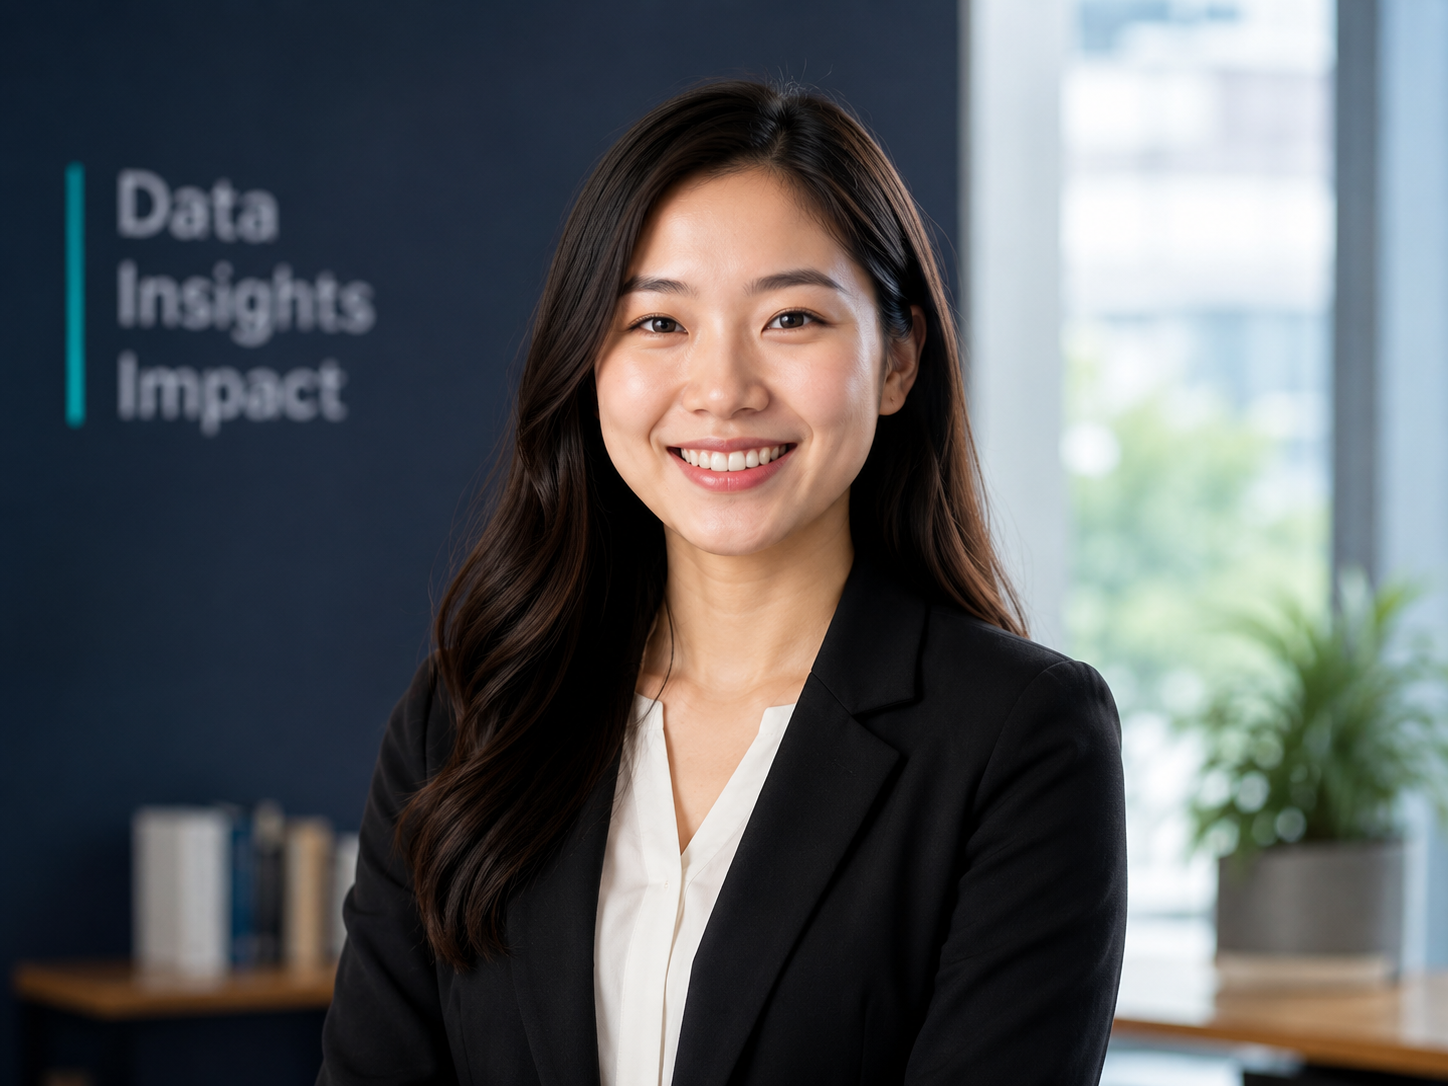
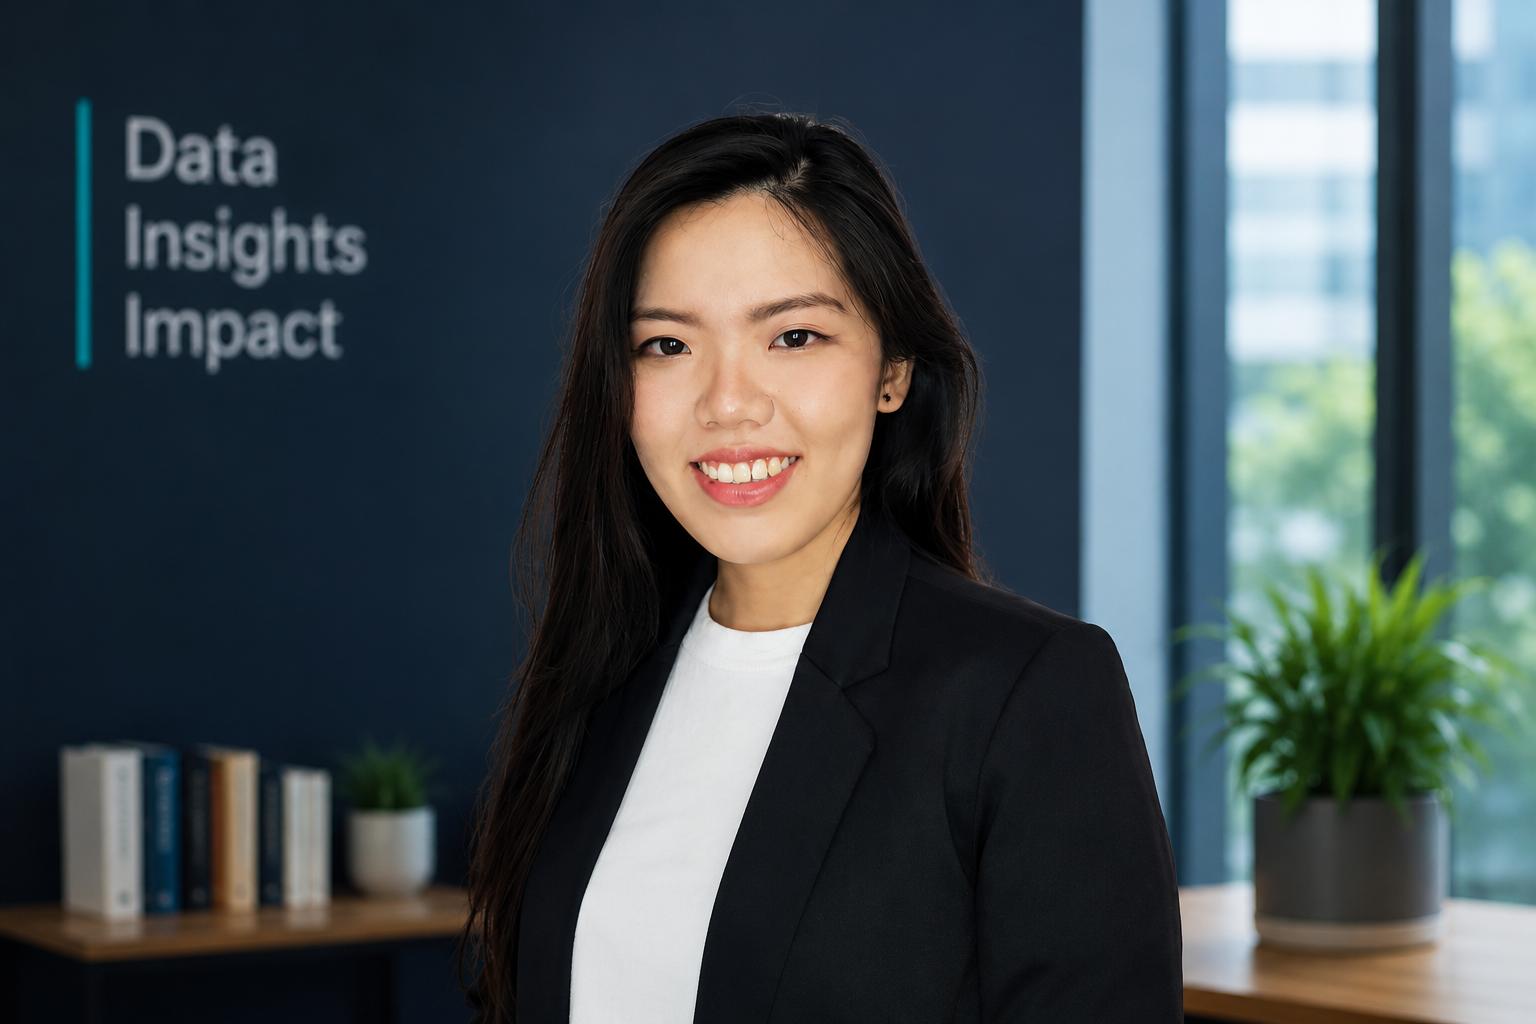
add Education Section + refining

diff --git a/index.html b/index.html
@@ -68,12 +68,12 @@
         </h1>
 
         <h3>
-          IT Consultant • Business Analyst •
+          Business Analyst • IT Consultant •
           Data Analyst
         </h3>
 
         <p>
-          IT Consultant and Business Analyst with 4+ years of experience delivering banking transformation initiatives
+          Business Analyst and IT Consultant with 4+ years of experience delivering banking transformation initiatives
           and
           analytical solutions. I specialize in translating complex business requirements into practical solutions that
           improve decision-making and operational performance.
@@ -323,24 +323,25 @@
 
             <ul class="exp-list">
               <li>
-                Led end-to-end Avaloq finance module migration with a lean delivery team.
+                Led end-to-end Finance module for and Avaloq core banking migration with a lean delivery team.
               </li>
 
               <li>
-                Delivered the project on schedule with the fewest tickets among project teams.
+                Built an Excel-based resource tracker, improving workload visibility and chargeability planning.
               </li>
 
               <li>
-                Reduced production issues from over 100 to 4 within two months through root-cause analysis and process
-                improvements.
+                Coordinated post-go-live issue resolution, reducing open production tickets from 100+ to 4 within two
+                months.
               </li>
             </ul>
 
             <div class="exp-tags">
-              <span>Avaloq</span>
-              <span>PL/SQL</span>
               <span>Business Analysis</span>
-              <span>SIT/UAT</span>
+              <span>Avaloq</span>
+              <span>Project Delivery</span>
+              <span>Stakeholder Management</span>
+              <span>PMO</span>
             </div>
 
           </div>
@@ -363,22 +364,26 @@
 
             <ul class="exp-list">
               <li>
-                Translated business needs into technical requirements, validated the delivered solution by testing,
-                and
-                delivered user guide modules and user training sessions.
+                Gathered business requirements and translated them into functional specifications for Avaloq
+                implementations.
               </li>
 
               <li>
-                Conducted Avaloq code development using PL/SQL, building new skills and sustaining delivery despite
-                developer scarcity.
+                Led SIT and UAT by preparing 23 test documents covering 100+ scenarios.
+              </li>
+
+              <li>
+                Created user guides, delivered training sessions, and contributed PL/SQL development to accelerate
+                delivery.
               </li>
             </ul>
 
             <div class="exp-tags">
-              <span>Avaloq</span>
-              <span>PL/SQL</span>
               <span>Business Analysis</span>
+              <span>Requirements Gathering</span>
               <span>SIT/UAT</span>
+              <span>PL/SQL</span>
+              <span>Jira</span>
             </div>
 
           </div>
@@ -401,24 +406,25 @@
 
             <ul class="exp-list">
               <li>
-                Expanded global client outreach, delivering 42% annual revenue growth in 2021, 12 new accounts, and
-                market entry into Portugal, which improve exporter rank to 7th by Jan 2021.
+                Expanded international business, increasing annual revenue by 42%, acquiring 12 new export customers,
+                and entering market in Portugal.
               </li>
 
               <li>
-                Launched 3 new derivative products that contributed 17% of total revenue in 2020 by attracting new
-                customers and expanding product variations based on current raw material items.
+                Launched three derivative products that generated an additional 17% of annual revenue.
               </li>
 
               <li>
-                Coordinated operational scale-up initiatives, increasing production from 200 to 500 tons of product
-                yearly to fulfill sales demand and ensure on-time delivery.
+                Coordinated production scale-up from 200 to 500 tons annually to support business growth.
               </li>
             </ul>
 
             <div class="exp-tags">
-              <span>International Sales</span>
-              <span>Business Analysis</span>
+              <span>Business Strategy</span>
+              <span>Market Analysis</span>
+              <span>Product Development</span>
+              <span>Forecasting</span>
+              <span>B2B Sales</span>
             </div>
 
           </div>
@@ -441,17 +447,25 @@
 
             <ul class="exp-list">
               <li>
-                Optimized the sales process by evaluating historical sales patterns and Indonesia export data,
-                boosting
-                2019 annual product revenue growth by 47% and making the coconut & honey department the
-                second-largest
-                revenue contributor, while moving deadstocks and improving order processing time.
+                Analyzed 5,000+ monthly export transactions to identify customer opportunities and improve inventory
+                planning.
+              </li>
+
+              <li>
+                Developed data-driven sales strategies that increased annual revenue by 47% and reduced deadstock.
+              </li>
+
+              <li>
+                Helped position the department as the company's second-largest revenue contributor in 2019.
               </li>
             </ul>
 
             <div class="exp-tags">
-              <span>International Sales</span>
-              <span>Business Analysis</span>
+              <span>Data Analysis</span>
+              <span>Excel</span>
+              <span>Pricing Analysis</span>
+              <span>Data Visualization</span>
+              <span>Inventory Planning</span>
             </div>
 
           </div>
@@ -553,6 +567,99 @@
 
   </section>
 
+  <!-- EDUCATION -->
+
+  <section id="education" class="section">
+
+    <div class="container">
+
+      <div class="section-title">
+        <h2>Education</h2>
+        <p>Academic background and professional development</p>
+      </div>
+
+      <div class="education-grid">
+
+        <!-- Master -->
+
+        <div class="education-card">
+
+          <div class="education-header">
+            <h3>Master of Financial Management</h3>
+            <span>2021 – 2023</span>
+          </div>
+
+          <h4>University of Indonesia</h4>
+
+          <p>
+            Graduated with a GPA of <strong>3.94 / 4.00</strong>. Focused on
+            financial analysis, investment, corporate finance, and data-driven
+            decision making.
+          </p>
+
+          <div class="tags">
+            <span>Finance</span>
+            <span>Business Analysis</span>
+            <span>Data Analysis</span>
+          </div>
+
+        </div>
+
+        <!-- Bachelor -->
+
+        <div class="education-card">
+
+          <div class="education-header">
+            <h3>Bachelor of Bioengineering</h3>
+            <span>2013 – 2018</span>
+          </div>
+
+          <h4>Bandung Institute of Technology</h4>
+
+          <p>
+            Graduated with a GPA of <strong>3.30 / 4.00</strong>. Built a strong
+            analytical and problem-solving foundation through engineering,
+            statistics, and scientific research.
+          </p>
+
+          <div class="tags">
+            <span>Engineering</span>
+            <span>Statistics</span>
+            <span>Research</span>
+          </div>
+
+        </div>
+
+        <!-- Bootcamp -->
+
+        <div class="education-card">
+
+          <div class="education-header">
+            <h3>Full Stack Data Analytics Bootcamp</h3>
+            <span>2026</span>
+          </div>
+
+          <h4>RevoU</h4>
+
+          <p>
+            Completed hands-on projects covering SQL, Python, Tableau, Power BI,
+            Airflow, and machine learning using real business datasets.
+          </p>
+
+          <div class="tags">
+            <span>Python</span>
+            <span>SQL</span>
+            <span>Tableau</span>
+            <span>Power BI</span>
+          </div>
+
+        </div>
+
+      </div>
+
+    </div>
+
+  </section>
 
   <!-- CONTACT -->
 

diff --git a/style.css b/style.css
@@ -821,6 +821,58 @@ nav.scrolled {
   background: var(--primary);
 }
 
+/* ===================== EDUCATION ===================== */
+
+.education-grid {
+  display: grid;
+  grid-template-columns: repeat(auto-fit, minmax(340px, 1fr));
+  gap: 28px;
+}
+
+.education-card {
+  background: var(--surface);
+  border: 1px solid var(--border);
+  border-radius: 24px;
+  padding: 30px;
+  transition: 0.3s;
+}
+
+.education-card:hover {
+  transform: translateY(-6px);
+  border-color: rgba(20, 184, 166, .35);
+}
+
+.education-header {
+  display: flex;
+  justify-content: space-between;
+  align-items: flex-start;
+  gap: 20px;
+  margin-bottom: 12px;
+}
+
+.education-header h3 {
+  font-size: 24px;
+  line-height: 1.3;
+}
+
+.education-header span {
+  color: var(--primary);
+  font-weight: 600;
+  white-space: nowrap;
+}
+
+.education-card h4 {
+  color: var(--text-secondary);
+  font-weight: 500;
+  margin-bottom: 18px;
+}
+
+.education-card p {
+  color: var(--text-secondary);
+  line-height: 1.8;
+  margin-bottom: 24px;
+}
+
 /* ===================== CONTACT ===================== */
 
 .contact-card {
